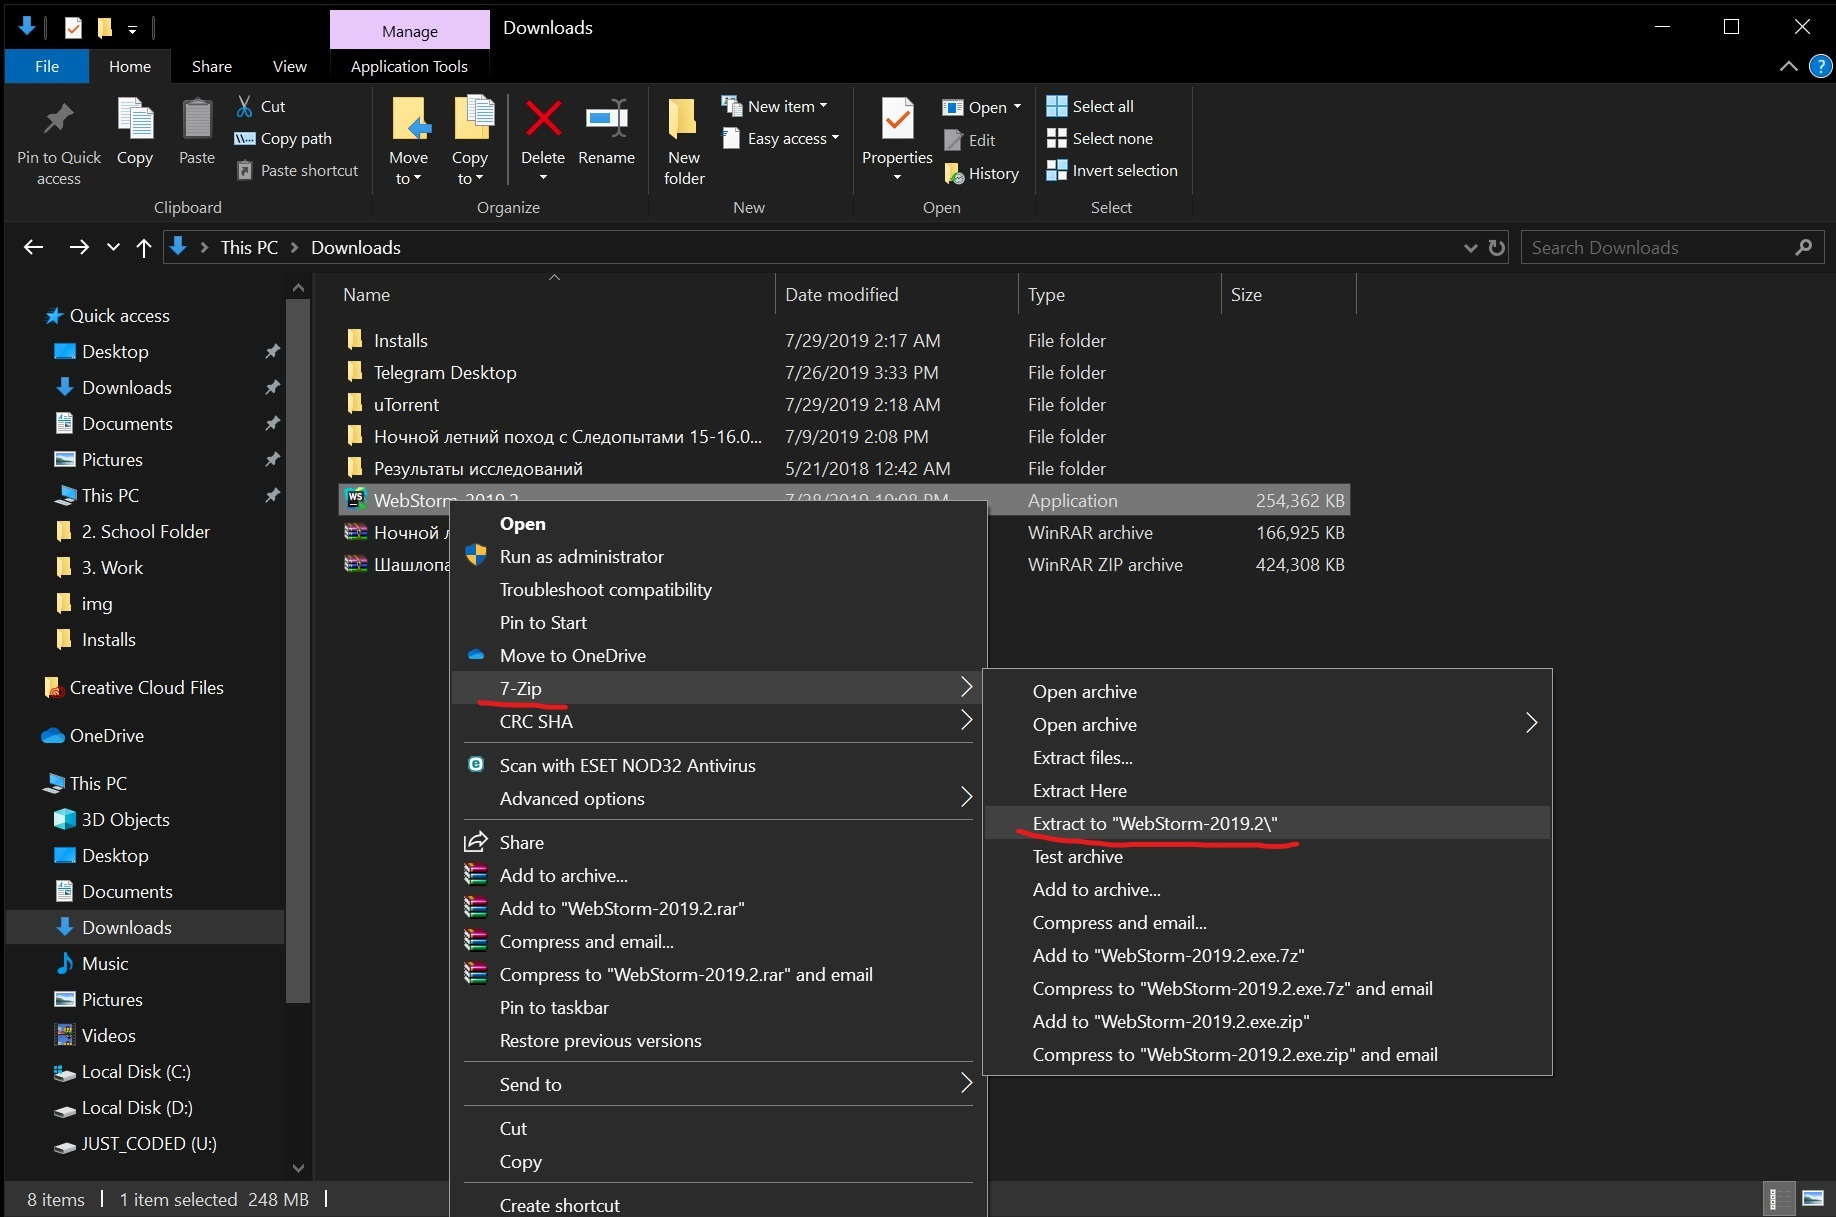
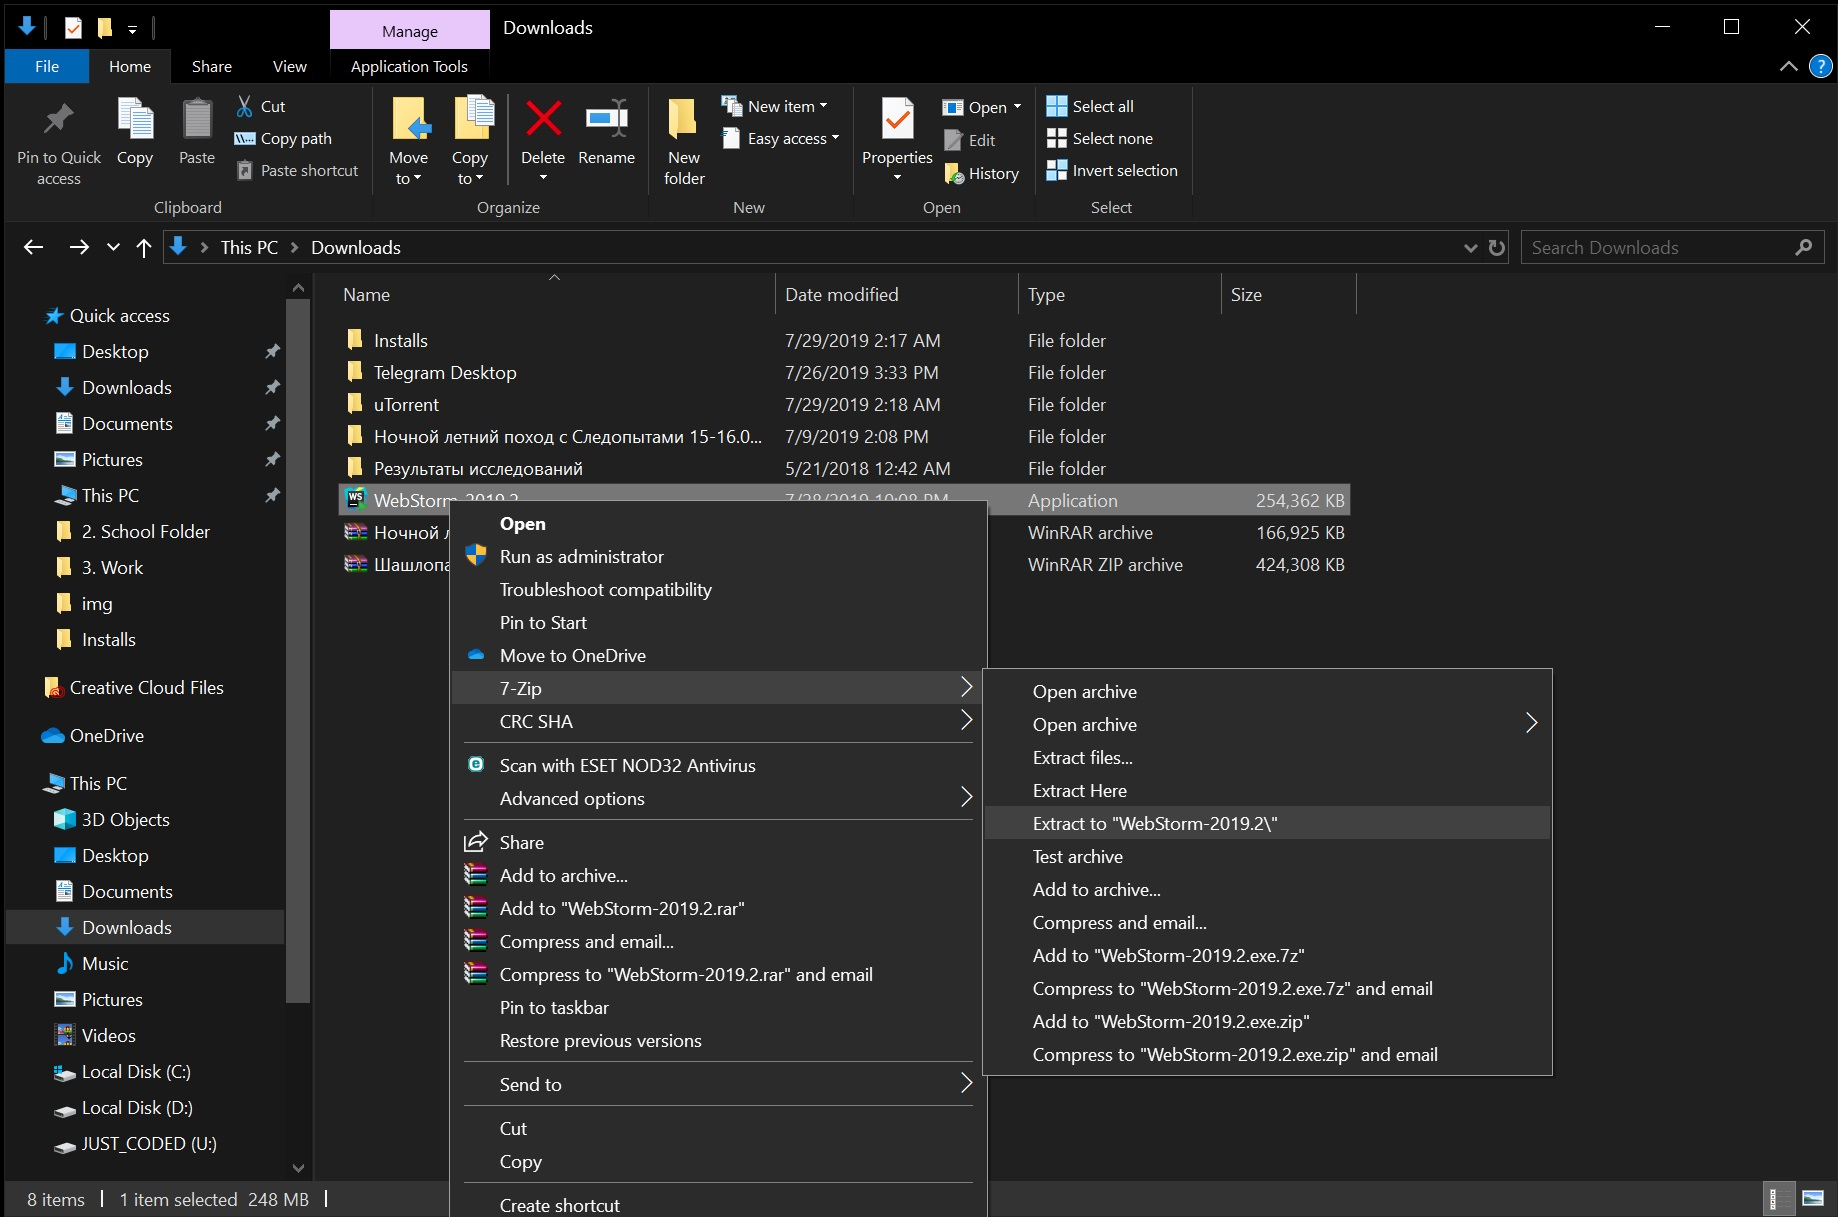
5

diff --git a/readme.md b/readme.md
@@ -6,7 +6,7 @@ https://www.jetbrains.com/webstorm/download
 
 https://www.7-zip.org/
 
-![Screenshot](https://github.com/MaksimBorovik/Guide-How-to-create-WebStorm-Portable/blob/master/img/123.JPG)
+![Screenshot](https://github.com/MaksimBorovik/Guide-How-to-create-WebStorm-Portable/blob/master/img/123.png)
 
 # 3. Заходим в полученную папку с программой
 
